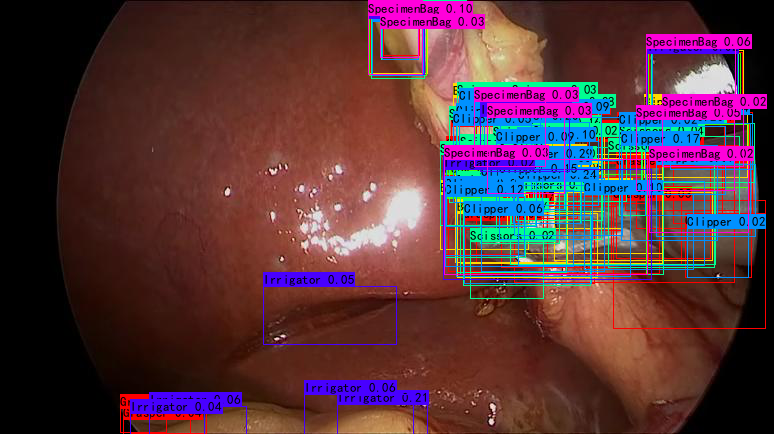
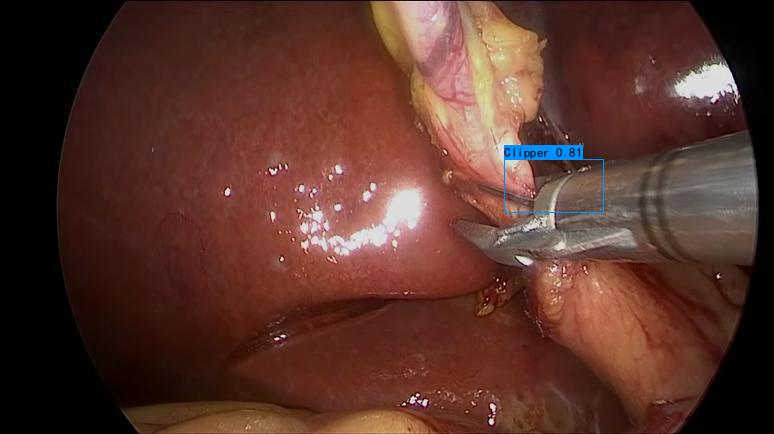
add predict threshold

diff --git a/frcnn.py b/frcnn.py
@@ -219,10 +219,11 @@ class FRCNN(object):
             else:
                 text_origin = np.array([left, top + 1])
 
-            for i in range(thickness):
-                draw.rectangle([left + i, top + i, right - i, bottom - i], outline=self.colors[c])
-            draw.rectangle([tuple(text_origin), tuple(text_origin + label_size)], fill=self.colors[c])
-            draw.text(text_origin, str(label,'UTF-8'), fill=(0, 0, 0), font=font)
+            if(score > 0.5):
+                for i in range(thickness):
+                    draw.rectangle([left + i, top + i, right - i, bottom - i], outline=self.colors[c])
+                draw.rectangle([tuple(text_origin), tuple(text_origin + label_size)], fill=self.colors[c])
+                draw.text(text_origin, str(label,'UTF-8'), fill=(0, 0, 0), font=font)
             del draw
 
         return image

diff --git a/predict.py b/predict.py
@@ -137,3 +137,5 @@ def predict():
 
     else:
         raise AssertionError("Please specify the correct mode: 'predict', 'video', 'fps' or 'dir_predict'.")
+
+predict()
